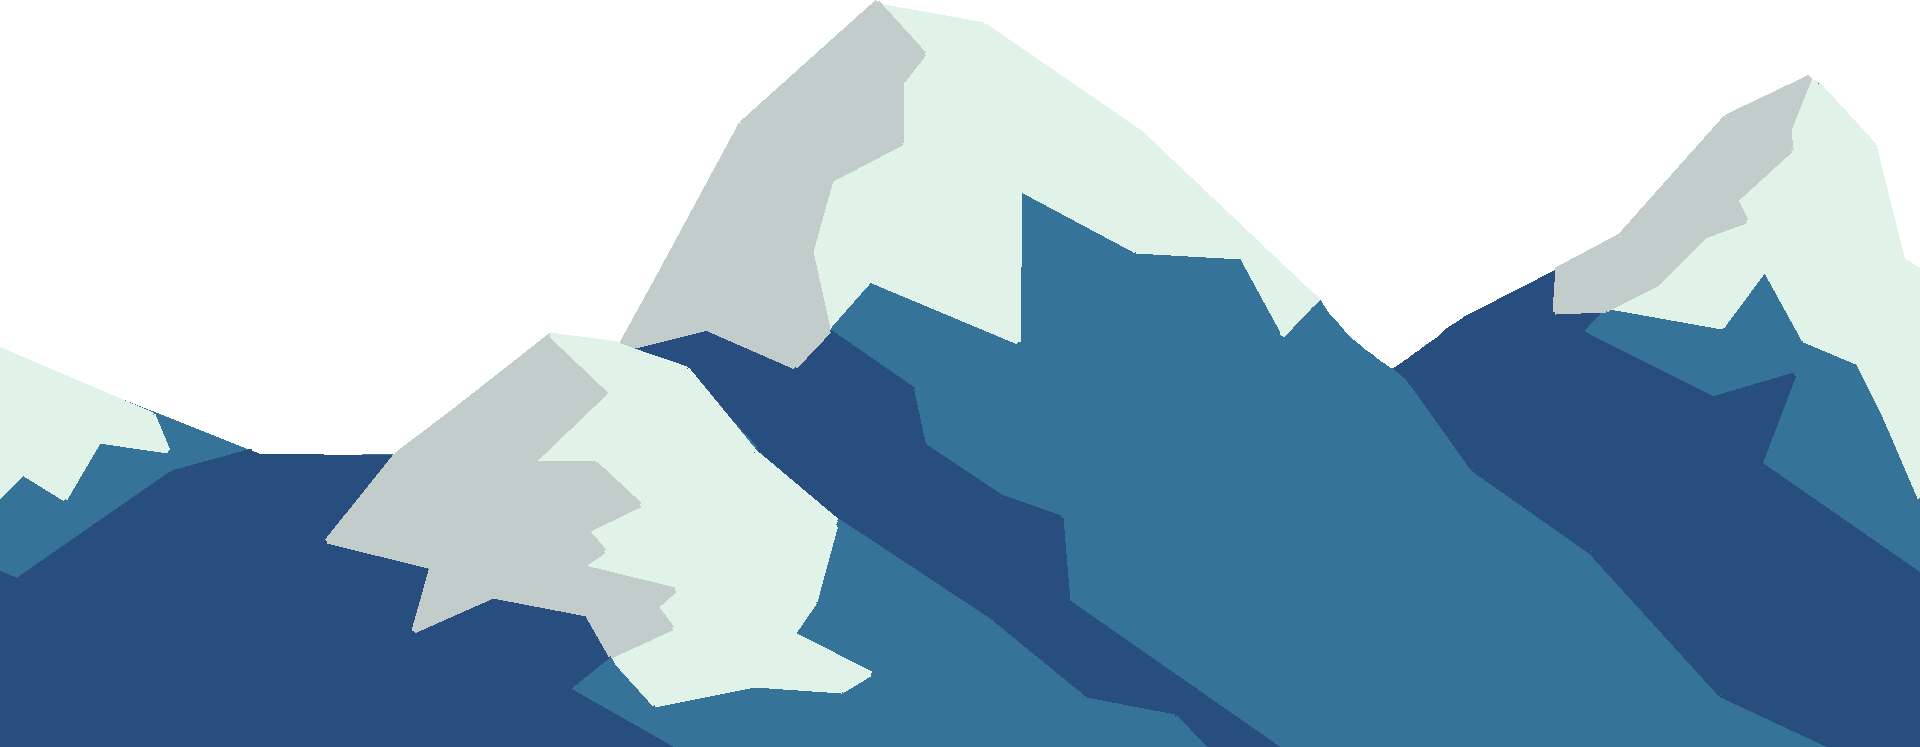
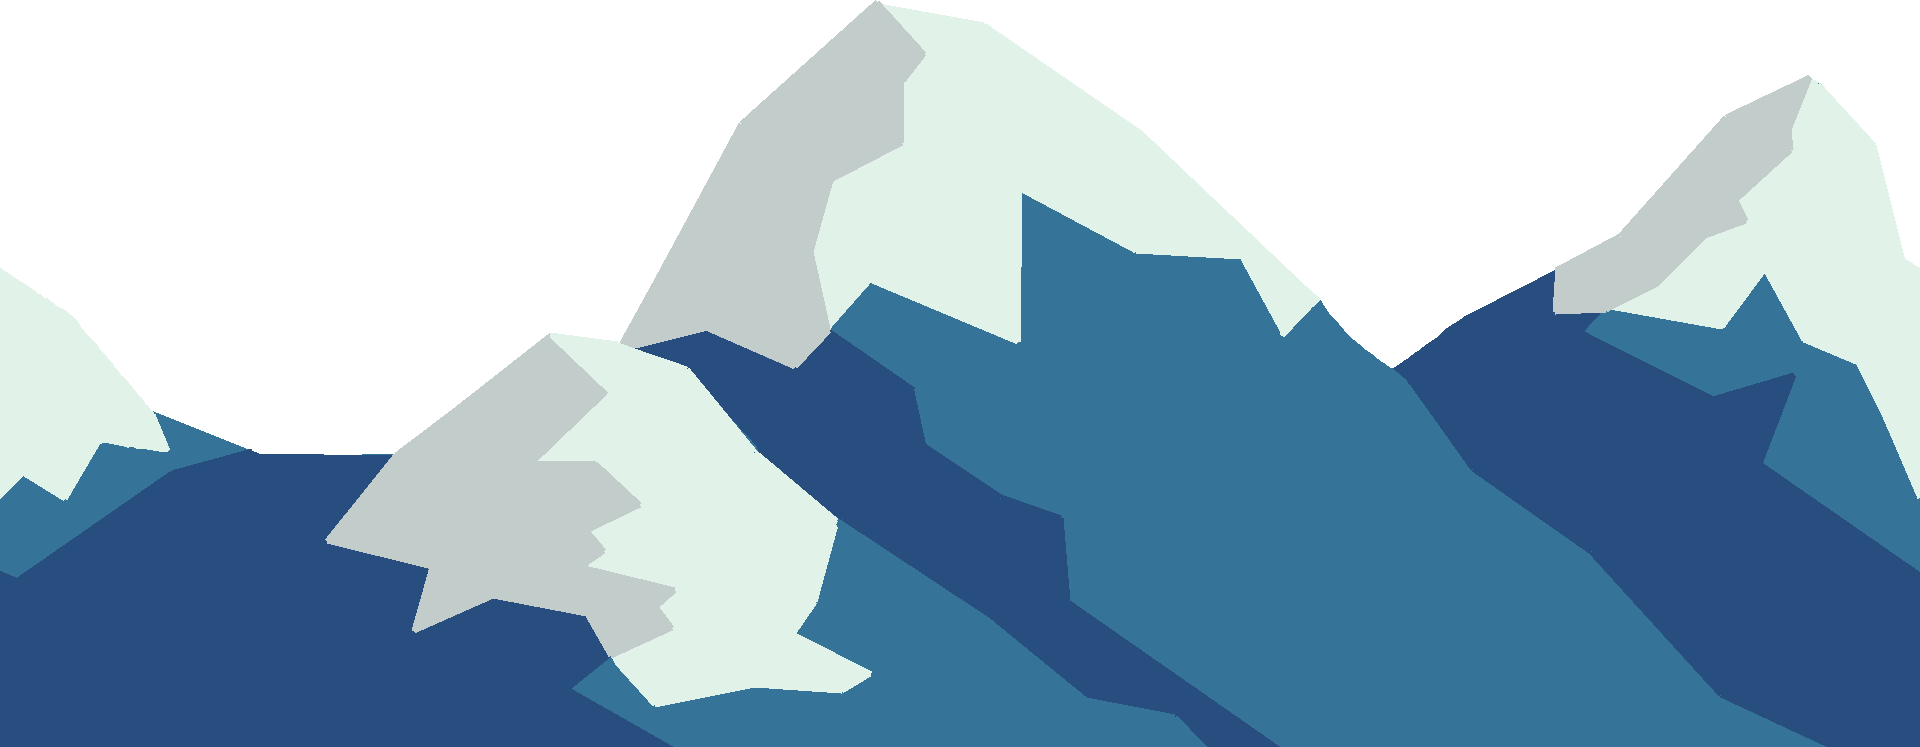
Added parallax script and changed background sprite a bit

Changed region(s): [[0.0, 0.3695, 0.0938, 0.5542]]

diff --git a/Assets/Scripts/Parallax.cs b/Assets/Scripts/Parallax.cs
@@ -1,0 +1,27 @@
+using System.Collections;
+using System.Collections.Generic;
+using UnityEngine;
+
+public class Parallax : MonoBehaviour
+{
+    private float length, startPos;
+    public GameObject cam;
+    public float parallaxEffect;
+
+    private void Start()
+    {
+        startPos = transform.position.x;
+        length = GetComponent<SpriteRenderer>().bounds.size.x;
+    }
+
+    private void Update()
+    {
+        float temp = (cam.transform.position.x * (1 - parallaxEffect));
+        float dist = (cam.transform.position.x * parallaxEffect);
+
+        transform.position = new Vector3(startPos + dist, transform.position.y, transform.position.z);
+
+        if (temp > startPos + length) startPos += length;
+        else if (temp < startPos - length) startPos -= length;
+    }
+}

diff --git a/Assets/Scripts/ParryBehavior.cs b/Assets/Scripts/ParryBehavior.cs
@@ -99,7 +99,7 @@ public class ParryBehavior : MonoBehaviour
         // If in range of projectile and space is pressed
         // Parry arrow shows up and time is slowed
         // When you let go hide the arrow and reset time
-        if (Input.GetKeyDown(KeyCode.Space) && canParry)
+        if (Input.GetKeyDown(KeyCode.Space) && canParry && !playerController.isGrounded())
         {
             holdTimer = 1.0f;
             Time.timeScale = 0.1f;
